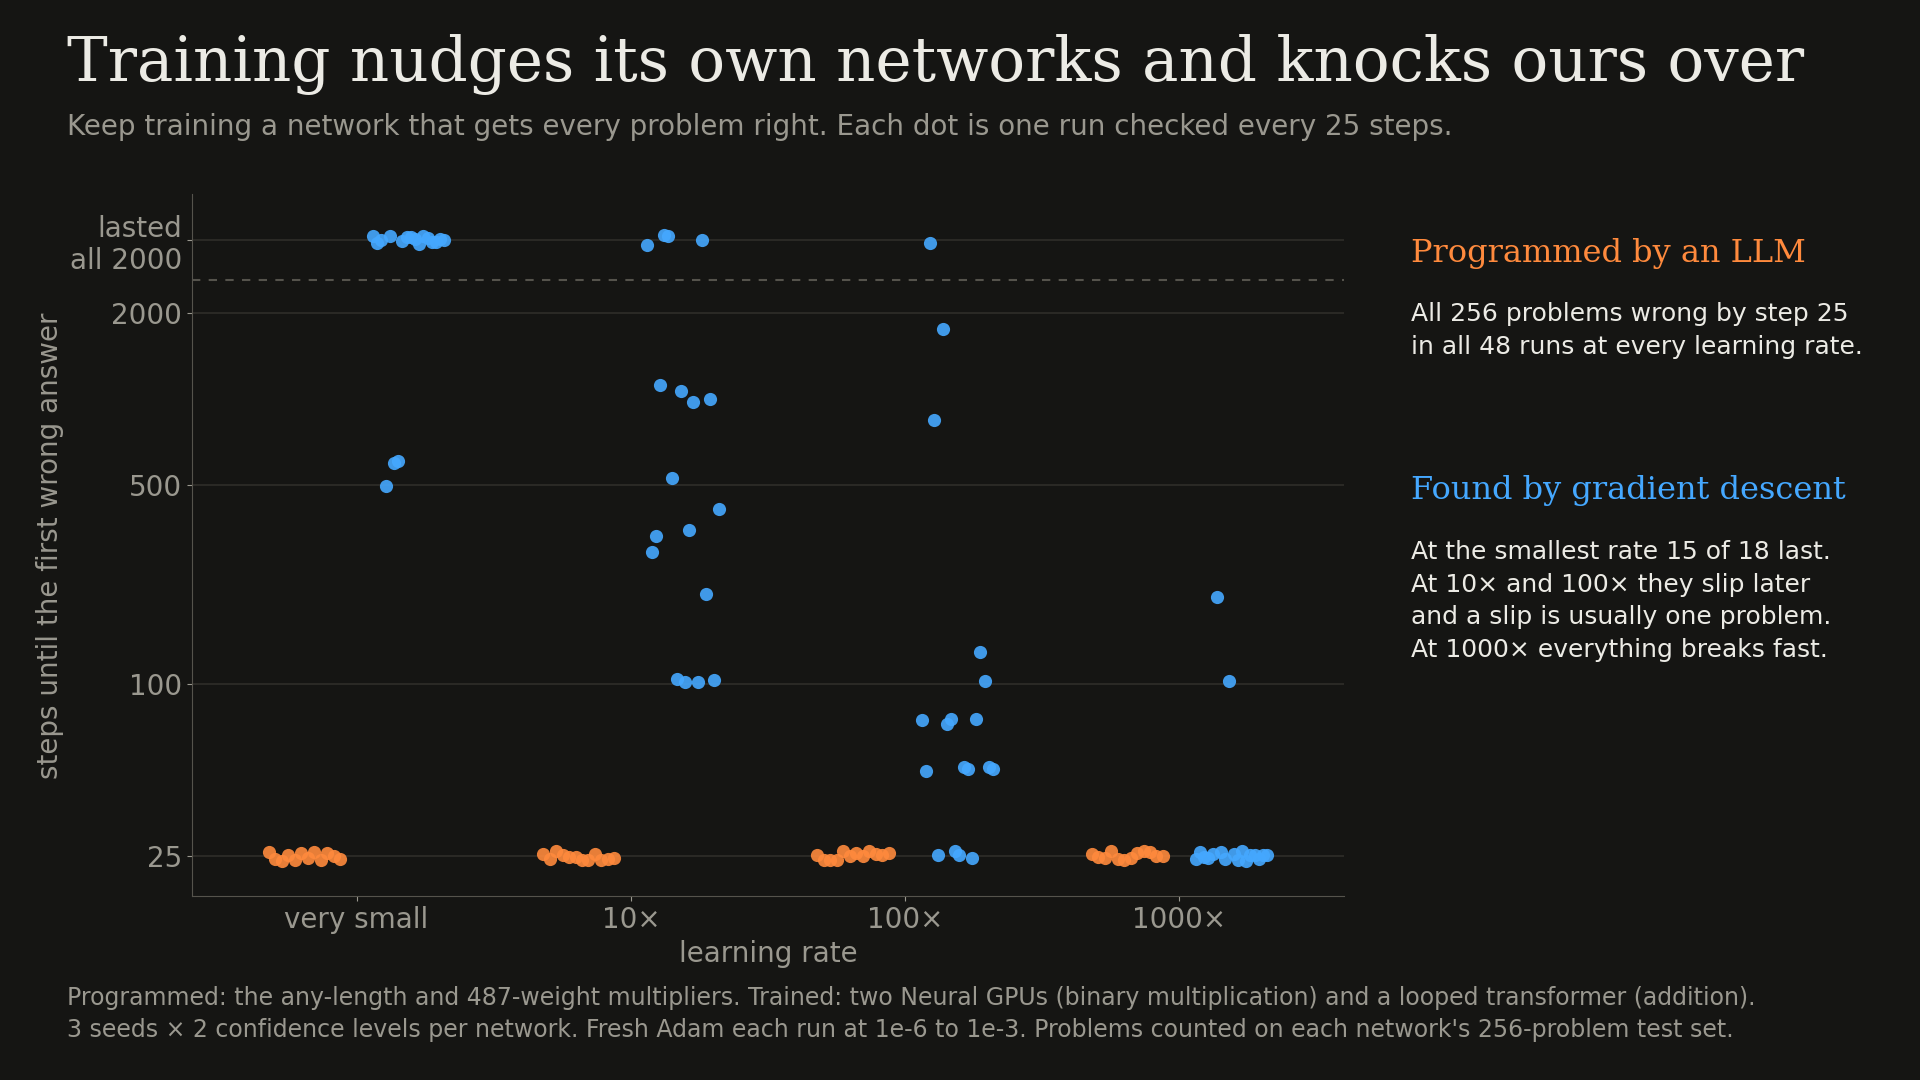
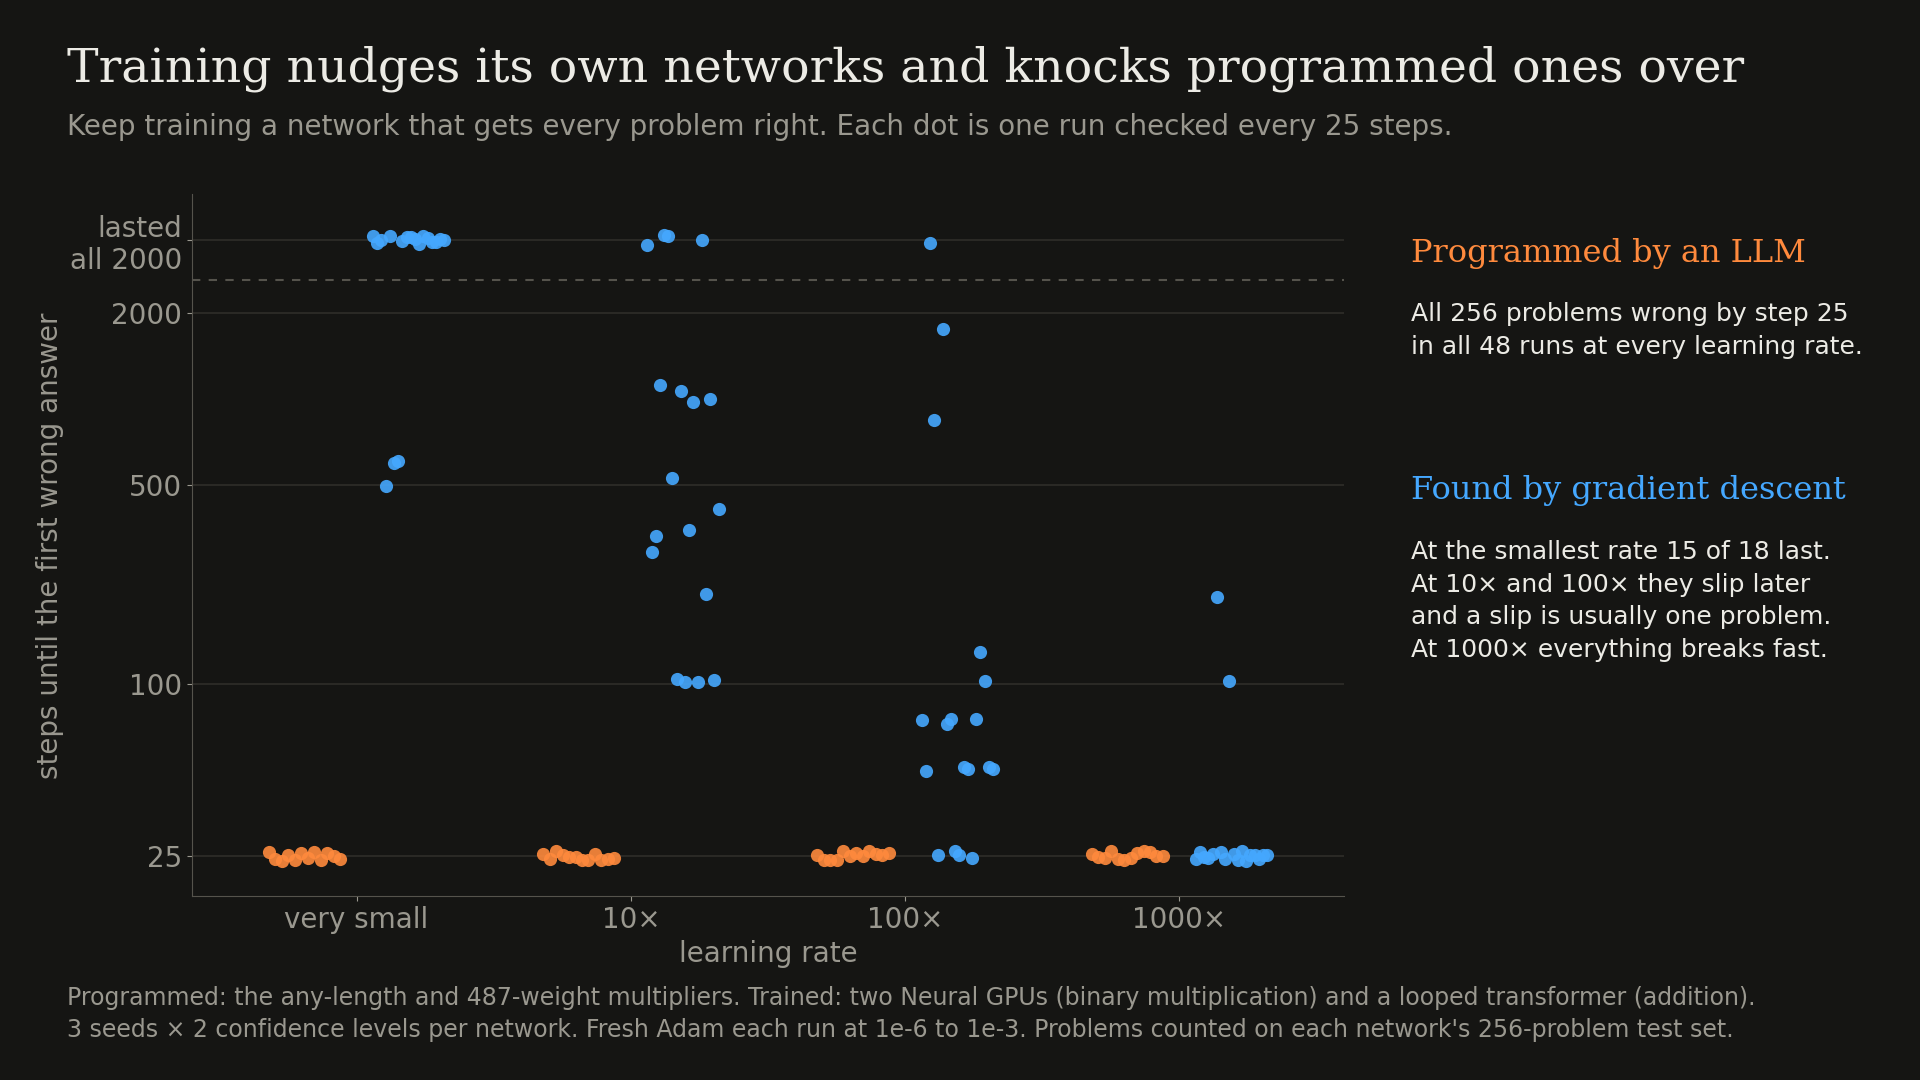
Training figure title: knocks programmed ones over

Changed region(s): [[0.0312, 0.0306, 0.9375, 0.0917]]

diff --git a/followup/figures/make_followup_train.py b/followup/figures/make_followup_train.py
@@ -81,7 +81,7 @@ fig.text(tx, 0.56, "Found by gradient descent", fontsize=23, color=C["blue"], fa
 fig.text(tx, 0.50, "At the smallest rate 15 of 18 last.\nAt 10× and 100× they slip later\nand a slip is usually one problem.\nAt 1000× everything breaks fast.",
          fontsize=18, color=C["ink"], linespacing=1.45, va="top")
 
-fig.text(0.035, 0.925, "Training nudges its own networks and knocks ours over", fontsize=44, family="serif", color=C["ink"])
+fig.text(0.035, 0.925, "Training nudges its own networks and knocks programmed ones over", fontsize=34, family="serif", color=C["ink"])
 fig.text(0.035, 0.875, "Keep training a network that gets every problem right. Each dot is one run checked every 25 steps.",
          fontsize=20, color=C["mute"])
 fig.text(0.035, 0.04, "Programmed: the any-length and 487-weight multipliers. Trained: two Neural GPUs (binary multiplication) and a looped "
